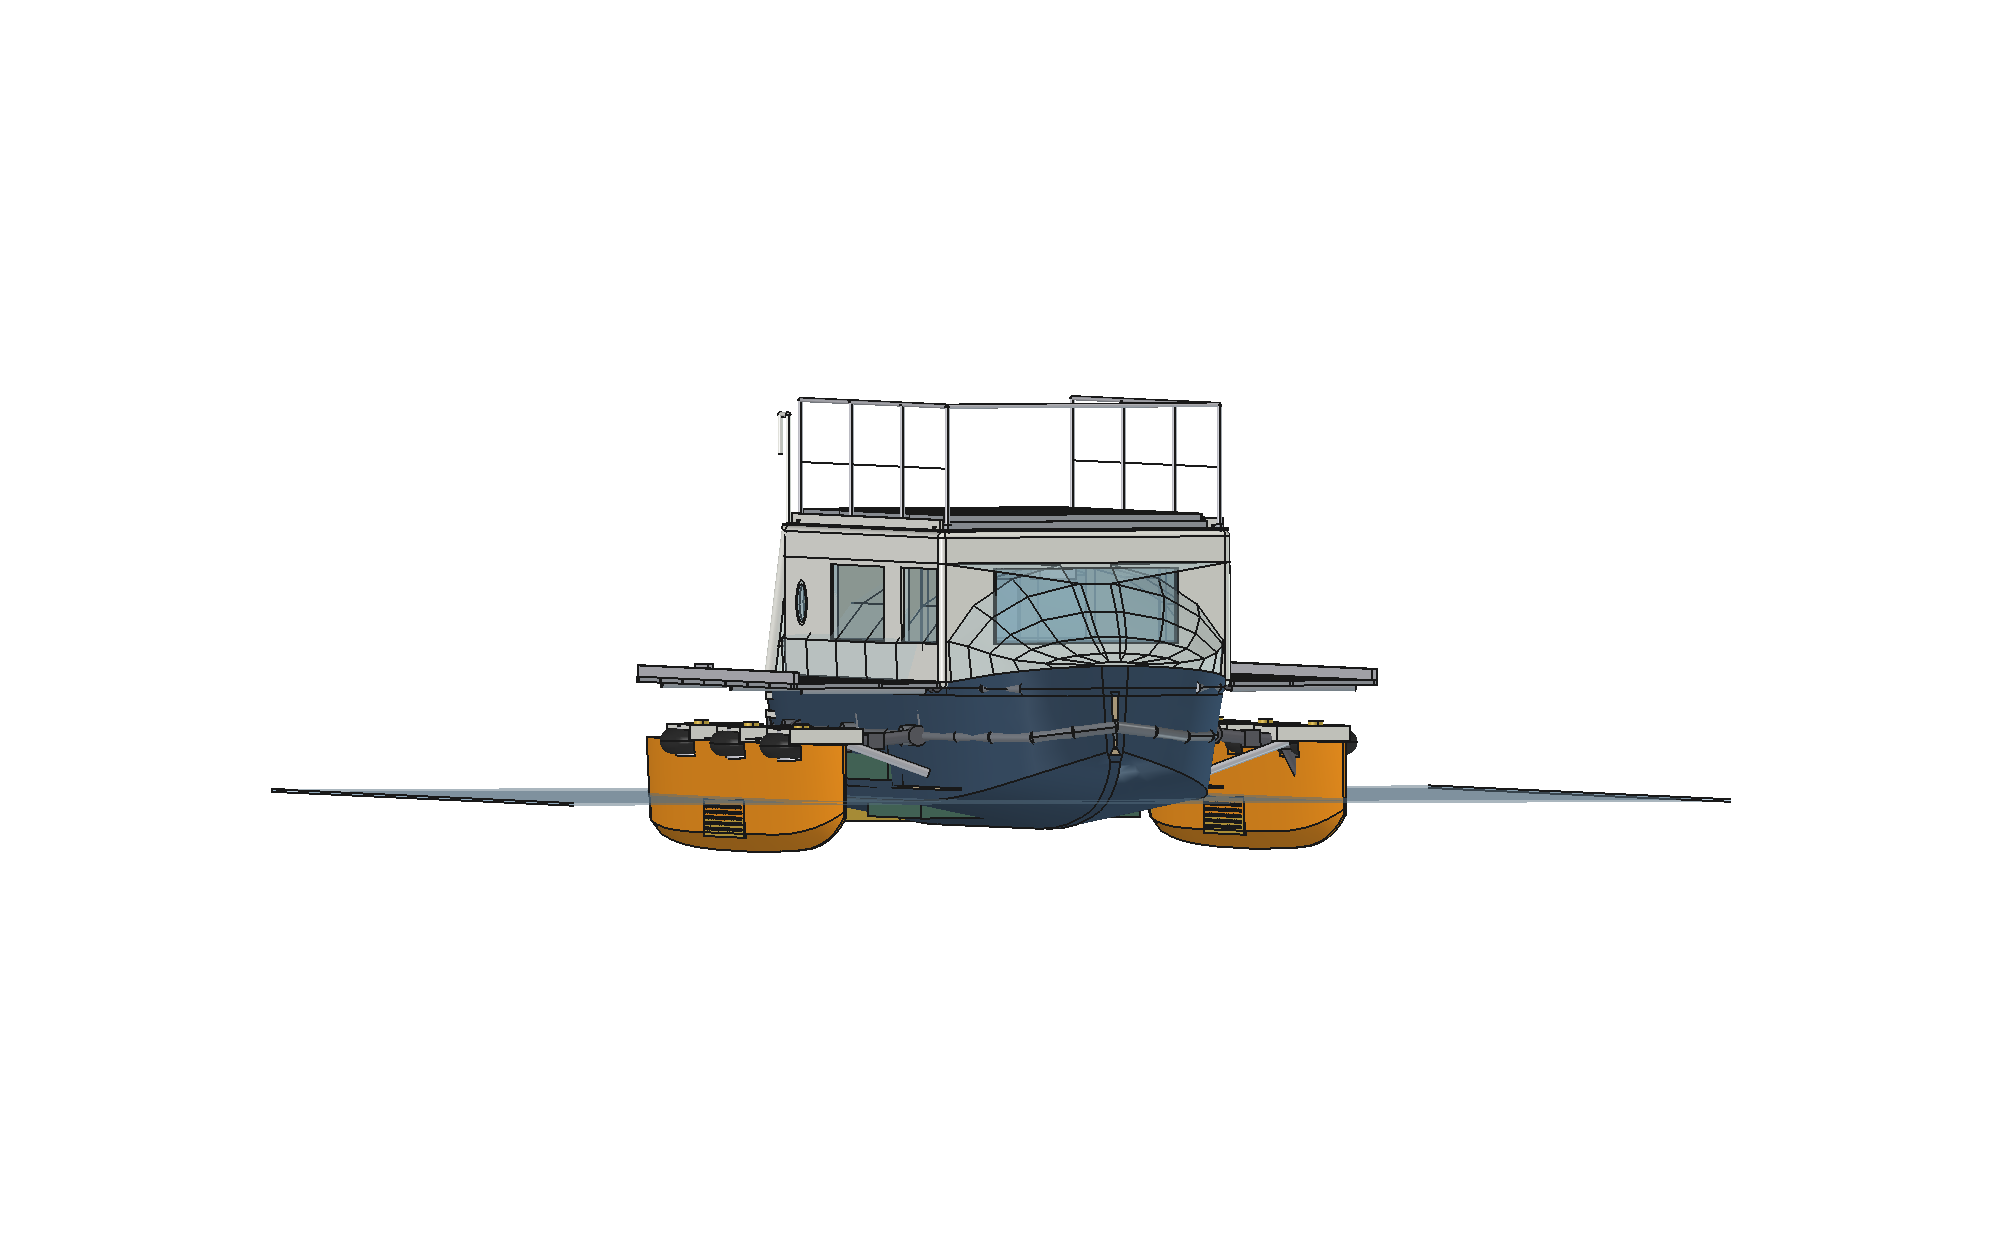
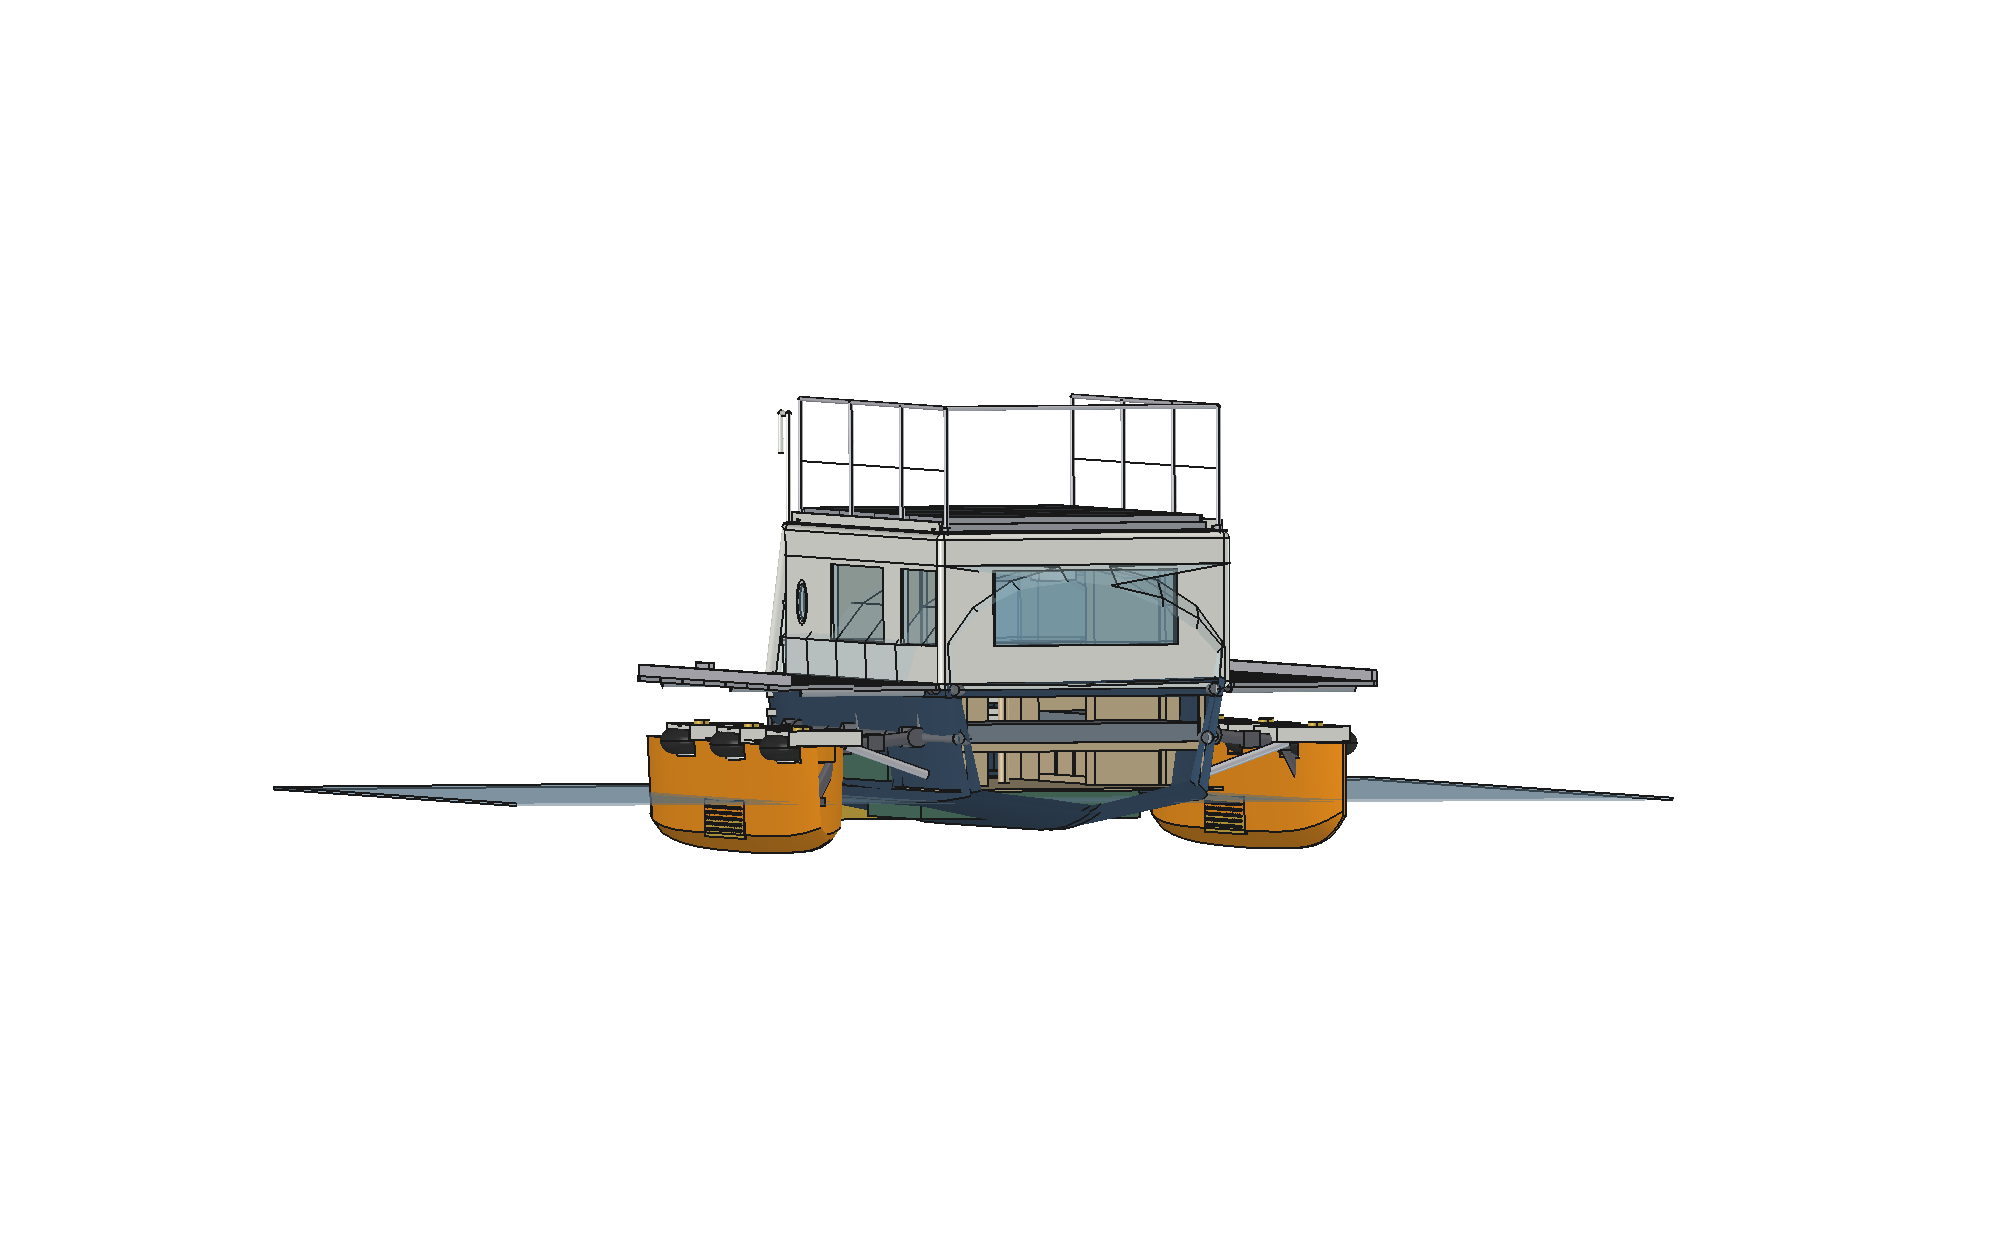
Balconies: full-width 500 W modules, side walkway dropped
Max's call after seeing the trade. A 500 W module is 1134 wide, the
balcony span is 1200 and the fold height caps it at 1431, so a 480
walkway and a full-size panel could not share the deck.

Dropping the walkway lets the modules run the full width: 2 standard
500 W panels per side recessed into the alu ladder frame, balconies go
0.99 -> 2.00 kWp. Same panel as the roof, so the whole boat now runs
one part number: 8 x 500 W, 4.00 kWp nominal, 3.83 effective.

The 540 mm aft passage keeps its tread and stays the walked route out
of the cockpit; forward of the cabin wall the balcony is a panel
surface, not a deck. Folded thickness unchanged at 48 mm.

Changed region(s): [[0.341, 0.312, 0.682, 0.6864], [0.651, 0.624, 0.868, 0.6552], [0.155, 0.624, 0.341, 0.6552]]

diff --git a/freecad/params.py b/freecad/params.py
@@ -51,8 +51,14 @@ WINDOWS = [(2500, 1800), (4900, 1200)]      # (x0, length)
 WIN_PIER = 600                     # solid pillar between the two openings
 PORTHOLE = (1500, 1780, 360)       # service zone: light + ventilation
 
-# ONE panel footprint everywhere: FLEXIBLE laminates (~430 W, ~6 kg,
-# bifacial on the balconies)
+# THE standard panel used everywhere on the boat: a common 2026-format
+# 500 W framed module, 1934 x 1134 x 30, ~24 kg. Standardised and cheap,
+# so it can be replaced at any solar shop for the life of the boat.
+MODULE_500 = (1934, 1134, 30)      # long side, short side, thickness
+MODULE_500_W = 500
+MODULE_500_KG = 24
+
+# legacy flexible-laminate footprint, still used for the float strips
 PANEL_L = 1700
 PANEL_W = 1130
 PANEL_T = 4
@@ -141,24 +147,24 @@ PASSAGE_X = 900                # it widens to the full balcony only from
 BALC_SPAN = 1200
 BALC_T = 40                    # ladder-frame depth; modules drop INTO it
 
-# WALKABLE balcony (Max): people must be able to walk the side decks,
-# and the panels there are STANDARD FRAMED MODULES — standardised,
-# cheap, and replaceable at any solar shop years from now.
+# FULL-WIDTH balcony panels (Max, after seeing what a walkway costs):
+# the side decks give up walking so that a 1134 mm 500 W module fits
+# across the whole 1200 mm span. The aft PASSAGE_W strip stays as the
+# route out of the cockpit; forward of the cabin wall the balcony is a
+# panel surface you do not stand on.
 #
 # The folded balcony stands vertically against the cabin on the road,
-# so the whole assembly may be at most 55 mm thick before the 2550 mm
-# road limit bites. That single number rules out the roof's trick of
-# putting a walking surface OVER the panels (module 35 + gap 40 +
-# tread 30 = 105 mm). So the walkway sits BESIDE the panels, in the
-# same plane, and the modules drop into the frame rather than onto it.
-MODULE_STD = (1480, 670, 35)   # a standard 165 W framed panel
-MODULE_W_PEAK_STD = 165
-MODULE_KG = 11.5
-BALC_WALK_W = 480              # inboard walkway strip, anti-slip tread
-BALC_PANEL_W = 690             # outboard strip: module + clearance
-BALC_TREAD_T = 3               # perforated anti-slip alu sheet
-BALC_MODULE_X0 = 1000
-BALC_MODULES = 3               # per side, along the wide deck
+# so the assembly may be at most 75 mm thick before the 2550 mm road
+# limit bites — which is why the modules still drop INTO the ladder
+# frame rather than onto it.
+MODULE_STD = MODULE_500        # same standard 500 W panel as the roof
+MODULE_W_PEAK_STD = MODULE_500_W
+MODULE_KG = MODULE_500_KG
+BALC_WALK_W = 0                # no side walkway any more
+BALC_PANEL_W = 1160            # the full span carries the module
+BALC_TREAD_T = 3               # tread remains on the aft passage only
+BALC_MODULE_X0 = 950
+BALC_MODULES = 2               # per side: 2 x 1934 fits the 5300 deck
 BALC_FRAME_RAIL = (25, 40, 3)  # alu box: b, h, wall
 BALC_FRAME_PITCH = 740         # cross rails: module ends + mid support
 BALC_FOLDED_T = BALC_T + 8     # frame depth + module lip + tread proud
@@ -347,13 +353,6 @@ RAIL_H = 1000
 LIFELINE_N = 2
 LIFELINE_D = 6
 
-# Roof field: STANDARD 500 W FRAMED MODULES (Max) laid ACROSS the
-# field under the glass — 1934 x 1134 x 30, ~24 kg, the common 2026
-# 500 W format. They sit in the 60 mm air box with 30 mm to spare,
-# and being standard they are replaceable anywhere.
-MODULE_500 = (1934, 1134, 30)      # long side, short side, thickness
-MODULE_500_W = 500
-MODULE_500_KG = 24
 DECK_PANELS = 4                    # what actually fits — see deck_panel_xy()
 PANEL_W_PEAK = MODULE_500_W        # W per roof module
 GLASS_TRANSMISSION = 0.91          # low-iron laminated
@@ -654,11 +653,14 @@ def checks(verbose=True):
         f"folded balcony {BALC_FOLDED_T} mm thick, only {balc_free:.0f} free"
     assert mt < BALC_T, \
         f"module {mt} mm must recess into the {BALC_T} mm frame, not sit on it"
-    assert BALC_WALK_W >= 450, f"balcony walkway only {BALC_WALK_W} mm"
+    assert BALC_WALK_W == 0 or BALC_WALK_W >= 450, \
+        f"balcony walkway {BALC_WALK_W} mm is neither absent nor usable"
     assert mw + 20 <= BALC_PANEL_W, \
         f"module {mw} does not fit the {BALC_PANEL_W} panel strip"
     assert BALC_WALK_W + BALC_PANEL_W + BALC_FRAME_RAIL[0] <= BALC_SPAN, \
         "walkway + panel strip wider than the balcony"
+    assert BALC_MODULE_X0 >= PASSAGE_X - 50, \
+        "balcony modules must start at the wide deck, not in the passage"
     assert BALC_MODULE_X0 + BALC_MODULES * (ml + 60) <= BALC_X1, \
         f"{BALC_MODULES} modules do not fit the deck length"
     # tow arch: coupling height on the road, protection reach at sea

diff --git a/freecad/build_boat.py b/freecad/build_boat.py
@@ -490,13 +490,15 @@ def build_balcony(fold_deg):
         s.Placement = place.multiply(s.Placement)
         return s
 
-    ml, mw, mt = P.MODULE_STD
+    ml, mw, mt = P.MODULE_STD          # the standard 500 W panel
     d = P.BALC_T
     frame, panels, tread, rail = [], [], [], []
 
-    # ---- ladder frame: two long rails + cross rails at the module ends
+    # ---- ladder frame: long rails at both edges, cross rails at the
+    #      module ends. No walkway strip any more: the modules run the
+    #      full width of the deck.
     b, h, wall = P.BALC_FRAME_RAIL
-    for fy in (0, P.BALC_WALK_W, P.BALC_SPAN - b):
+    for fy in (0, P.BALC_SPAN - b):
         frame.append(posed(box(P.BALC_X1 - P.PASSAGE_X + 40, b, h,
                                (P.PASSAGE_X - 40, fy, 0))))
     nx = int((P.BALC_X1 - P.PASSAGE_X) / P.BALC_FRAME_PITCH) + 1
@@ -504,7 +506,8 @@ def build_balcony(fold_deg):
         fx = P.PASSAGE_X + i * P.BALC_FRAME_PITCH
         if fx <= P.BALC_X1:
             frame.append(posed(box(b, P.BALC_SPAN, h, (fx, 0, 0))))
-    # narrow aft passage: frame only, all walkway
+    # narrow aft passage: frame plus tread — this is the only part of
+    # the balcony anyone walks on
     frame.append(posed(box(P.PASSAGE_X - P.BALC_X0, b, h,
                            (P.BALC_X0, 0, 0))))
     frame.append(posed(box(P.PASSAGE_X - P.BALC_X0, b, h,
@@ -514,20 +517,15 @@ def build_balcony(fold_deg):
                               (P.BALC_X0 + i * (P.PASSAGE_X - P.BALC_X0) / 2,
                                0, 0))))
 
-    # ---- standard framed modules, recessed into the outboard strip
-    gy = P.BALC_WALK_W + b + (P.BALC_PANEL_W - mw) / 2
+    # ---- standard 500 W modules, recessed into the full deck width
+    gy = (P.BALC_SPAN - mw) / 2
     for i in range(P.BALC_MODULES):
         px = P.BALC_MODULE_X0 + i * (ml + 60)
         panels.append(posed(box(ml, mw, mt, (px, gy, d - mt))))
-        # the alu module frame reads as a lip round the laminate
-        panels.append(posed(box(ml, 35, mt + 4, (px, gy, d - mt - 2))))
-        panels.append(posed(box(ml, 35, mt + 4, (px, gy + mw - 35,
-                                                 d - mt - 2))))
+        for edge in (gy, gy + mw - 35):            # alu module frame
+            panels.append(posed(box(ml, 35, mt + 4, (px, edge, d - mt - 2))))
 
-    # ---- walkway: perforated anti-slip tread over the inboard strip
-    tread.append(posed(box(P.BALC_X1 - P.PASSAGE_X + 40, P.BALC_WALK_W,
-                           P.BALC_TREAD_T,
-                           (P.PASSAGE_X - 40, 0, d - P.BALC_TREAD_T))))
+    # ---- tread on the aft passage only
     tread.append(posed(box(P.PASSAGE_X - P.BALC_X0, P.PASSAGE_W,
                            P.BALC_TREAD_T,
                            (P.BALC_X0, 0, d - P.BALC_TREAD_T))))

diff --git a/docs/roof.md b/docs/roof.md
@@ -120,9 +120,9 @@ a dropped anchor are all inside the envelope.
 over bonded laminates. Not a weight saving — mass bought as fixed
 structure and replaceable parts instead of mechanism.
 
-Solar: **2.99 kWp nominal** — roof 4 × 500 W = 2.00, balconies
-6 × 165 W = 0.99. After glass transmission (91 %), frame shading
-(4.4 %) and the ventilation gain (+5 %), **≈ 2.82 kWp effective**.
+Solar: **4.00 kWp nominal** — roof 4 × 500 W = 2.00, balconies
+4 × 500 W = 2.00. After glass transmission (91 %), frame shading
+(4.4 %) and the ventilation gain (+5 %), **≈ 3.83 kWp effective**.
 
 Two limits worth stating plainly:
 
@@ -132,52 +132,38 @@ Two limits worth stating plainly:
    and the ventilated box help; barefoot at midday will still be
    unpleasant.
 
-## 6. The solar balconies — same problem, different answer
+## 6. The solar balconies — full-width standard panels
 
-The side balconies must be walkable too, and Max wants **standard
-framed modules** there: standardised, cheap, and replaceable at any
-solar shop in ten years' time.
+The balconies carry the **same standard 500 W modules as the roof**:
+1 934 × 1 134, recessed into an aluminium ladder frame, **2 per side**.
 
-**The roof's trick does not transfer.** Folded up against the cabin for
-the road, the balcony assembly may be at most **75 mm thick** before
-the 2 550 mm width limit bites. A walking surface *over* the panels
-needs module 35 + air gap 40 + tread 30 = **105 mm**. It does not fit.
-
-So on the balcony the walkway goes **beside** the panels, in the same
-plane, and the modules drop **into** the frame instead of onto it:
+Max's first requirement here was a side walkway, and the geometry gave
+a hard answer: a 500 W module is 1 134 mm wide, the balcony span is
+1 200, and the fold height caps that span at 1 431 — so a walkway
+(480 mm) and a full-size module cannot share the deck. Offered the
+trade, he **dropped the walkway**: the balconies went from 0.99 to
+**2.00 kWp**, which is worth more than side decks nobody needs when the
+cockpit and the aft passage already give access.
 
 ```
-   PLAN of one balcony              SECTION (folded thickness 48 mm)
-   +-------------------------+       |<-- 480 -->|<--- 690 --->|
-   | ///// walkway 480 ///// |      .............................
-   +---+-----+-----+-----+---+      | tread 3   | module 35 in  |
-   |   | mod | mod | mod |   |      +----- 40 mm alu ladder ----+
-   +---+-----+-----+-----+---+
-     3 x 1480 x 670 standard panels    hinge <- 1200 -> outer edge
+   PLAN of one balcony                SECTION (folded 48 mm)
+   +--------------------------+        |<------ 1160 ------>|
+   |  module   |   module     |       ...........................
+   |  1934x1134|   1934x1134  |       |  module 35 recessed     |
+   +--------------------------+       +--- 40 mm alu ladder ----+
+    passage 540 aft, tread only
 ```
 
 | | |
 |---|---|
 | frame | aluminium box 25 × 40 × 3 ladder, cross rails at 740 |
-| walkway | 480 mm of perforated anti-slip alu tread, full length |
-| modules | **3 standard 1 480 × 670 framed panels per side, 165 W** |
+| modules | **2 standard 500 W panels per side**, recessed |
+| walked on | the **540 mm aft passage only** — the panels are not a deck |
 | folded thickness | **48 mm** of the 75 available |
-| mass | ≈ 141 kg per side |
+| mass | ≈ 134 kg per side |
 
-**What it costs.** Giving 480 mm of the 1 200 mm width to a walkway,
-and using small standard modules rather than full-size laminates, takes
-the balconies to **0.99 kWp**. A 500 W module is 1 134 mm wide and will
-not fit beside a walkway on a 1 200 mm balcony (1 134 + 480 = 1 614,
-and the fold height caps the span at 1 431) — so the balconies use the
-largest standard panel that does fit the 690 mm strip. System total is
-now
-**2.99 kWp nominal / 2.82 effective** — roughly 15–17 kWh on a good
-summer day against the 50 kWh bank.
-
-If the walkways are ever judged not worth it, the swap is
-straightforward: full-width 1 130 mm modules restore **+1.6 kWp** and
-the balconies become panel surfaces you do not stand on, with only the
-540 mm aft passage walkable.
+The folded assembly is what the road limit sees, which is why the
+modules still drop **into** the frame rather than onto it.
 
 ## 7. Cost sketch (2026, EUR)
 
@@ -192,7 +178,7 @@ the balconies become panel surfaces you do not stand on, with only the
 
 | Balconies (both sides) | Est. |
 |---|---|
-| 6 × standard 165 W framed modules | 480 |
+| 4 × standard 500 W framed modules | 520 |
 | Alu ladder frames, hinges, brackets | 900 |
-| Perforated anti-slip tread, 6 m² | 420 |
-| **Balcony total** | **≈ 1 800** |
+| Anti-slip tread on the aft passages | 140 |
+| **Balcony total** | **≈ 1 560** |

diff --git a/README.md b/README.md
@@ -19,7 +19,7 @@ hydrostatic constraint is asserted in code.
 | Wheels | 6 × 205/70 R15 all-terrain, in-float hydraulic drive |
 | Floats | 6.2 m, ~1.55 t reserve each (82 %), righting SF ≈ 4.5 |
 | Water beam | 4.72 m (trimaran), floats fold flush under hull on road |
-| Solar | roof: 4 standard 500 W modules under walk-on glass; balconies: 6 standard 165 W modules — 2.99 kWp nominal / ~2.8 effective |
+| Solar | 8 × standard 500 W framed modules — 4 on the roof under walk-on glass, 4 on the balconies — 4.00 kWp nominal / ~3.8 effective |
 | Structure | external steel frame (ladder loop) carries all arm/balcony/tow loads — nothing crosses the cabin |
 | Tow | stern-first; A-arch pin-locked: sea gantry / extensible drawbar, +100 kg tongue |
 | Stern gear | 2 t electric self-recovery winch + anchor on a transom roller |
@@ -28,7 +28,7 @@ hydrostatic constraint is asserted in code.
 | Cabin | 5.3 × 2.28 m inside, 1.85 m clear headroom |
 | Interior | heads with shower, galley (fridge/freezer tower, washer), dinette that sleeps 2, athwartships double; batteries + water under the settees |
 | Roof deck | walk-on glass over a ventilated air box: 8 laminated panes on an alu grid, panels bonded underneath — no moving parts |
-| Side balconies | walkable too: 480 mm anti-slip walkway beside standard framed modules recessed into an alu ladder frame, 48 mm folded |
+| Side balconies | full-width 500 W modules recessed into an alu ladder frame, 48 mm folded; the 540 mm aft passage is the walked route |
 
 ## The five configurations
 
